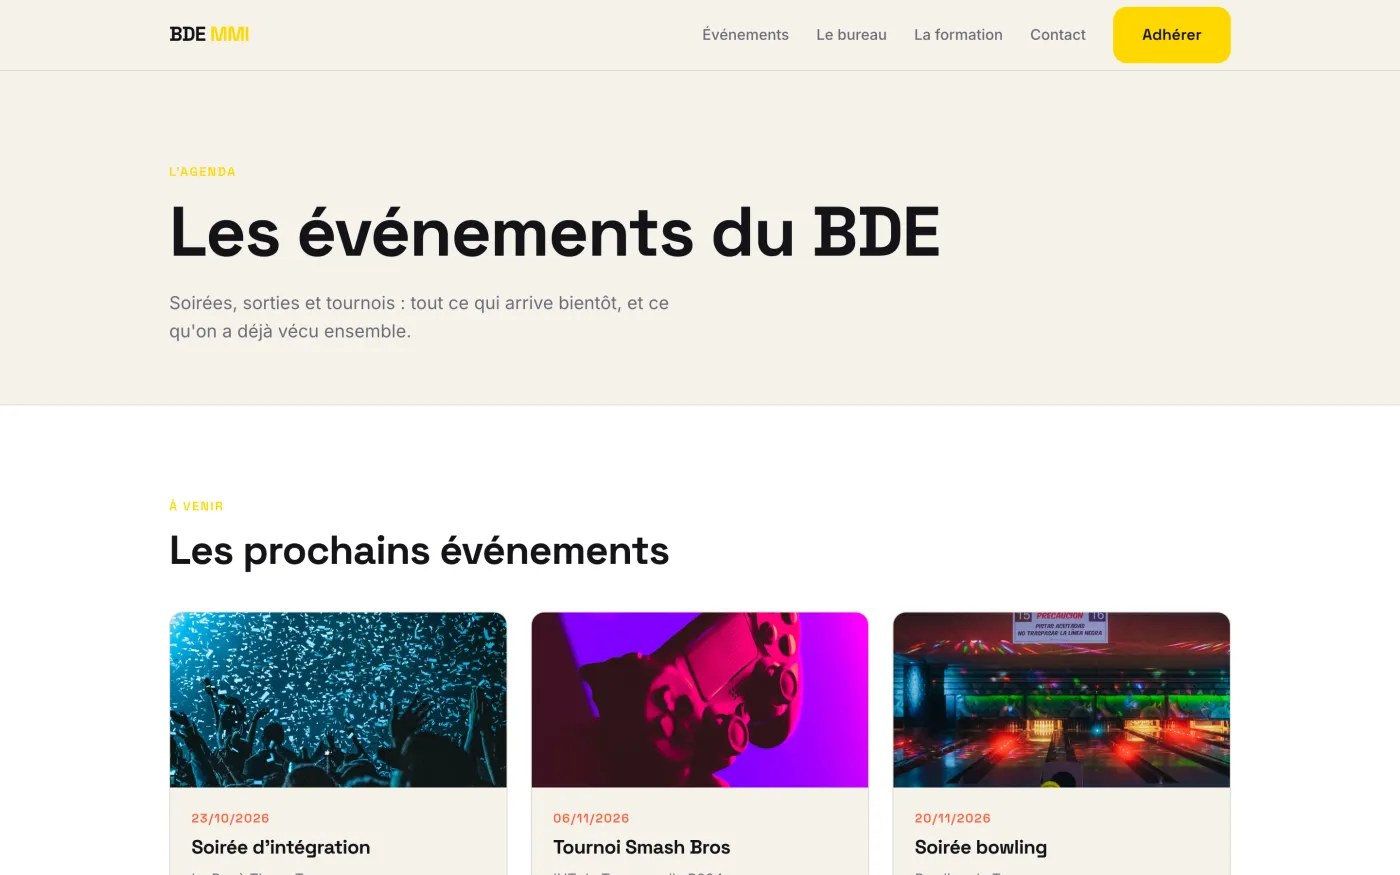
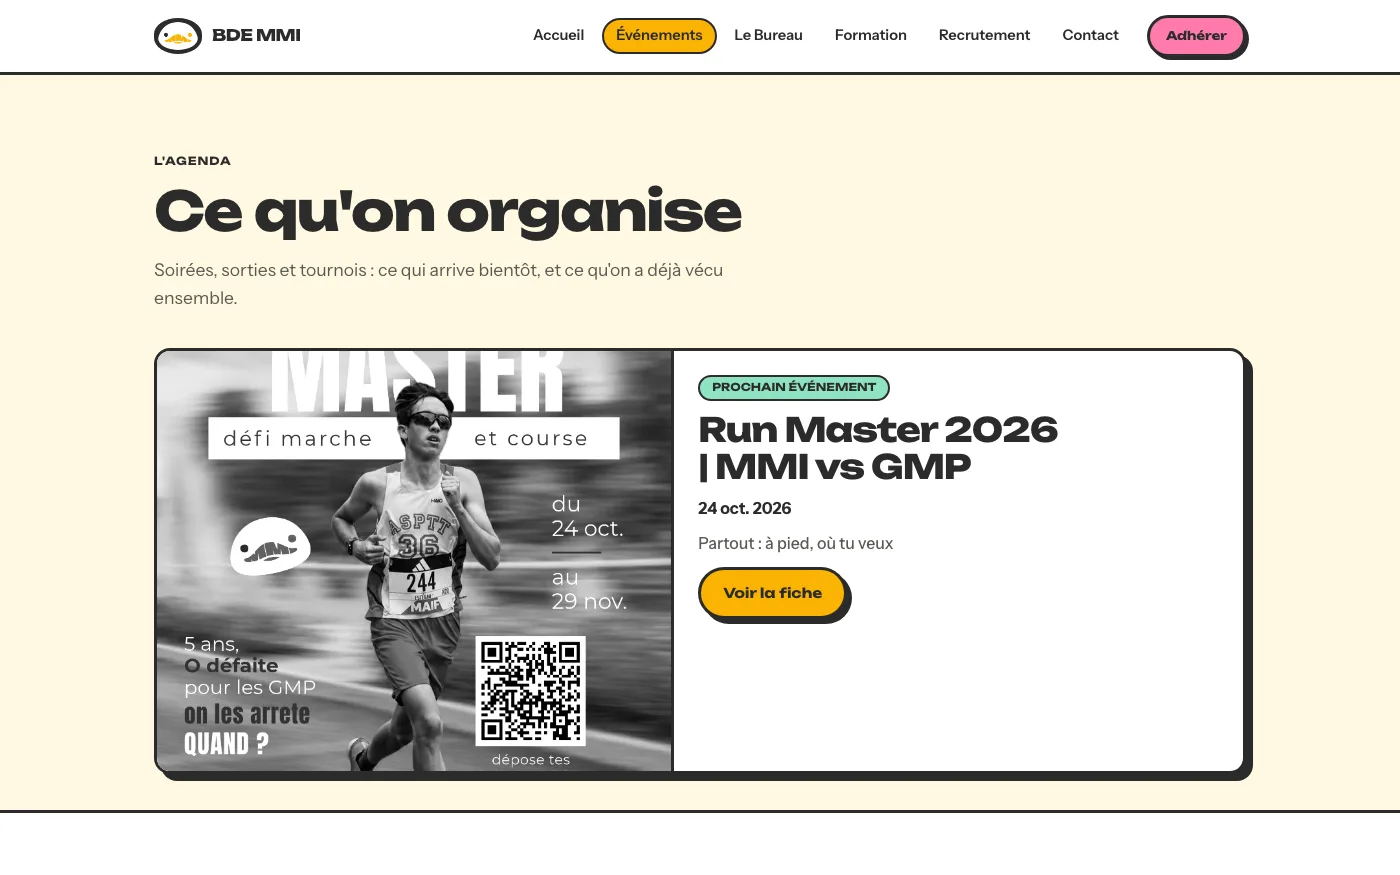
Remplace les captures du site BDE par le nouveau rendu
Accueil, événements, détail, candidature et vignette ; alts et crédit photo ajustés.

diff --git a/projet-bde-mmi.html b/projet-bde-mmi.html
@@ -55,7 +55,7 @@
       <div class="preview-wrapper">
         <span class="preview-badge">Symfony</span>
         <div class="preview-frame reveal-right">
-          <img src="images/bde-mmi/desktop-accueil.webp" alt="Page d'accueil du site du BDE MMI avec les prochains événements" style="width:100%;height:100%;object-fit:cover;display:block;" />
+          <img src="images/bde-mmi/desktop-accueil.webp" alt="Page d'accueil du site du BDE MMI : bandeau jaune « On fait vivre MMI » et boutons Adhérer et Voir les événements" style="width:100%;height:100%;object-fit:cover;display:block;" />
         </div>
         <div class="preview-tag preview-tag--js"><i class="fa-brands fa-symfony" style="color:#1a1a1a"></i> Symfony</div>
         <div class="preview-tag preview-tag--html"><i class="fa-solid fa-database" style="color:#0f2f70"></i> MySQL</div>
@@ -493,13 +493,13 @@ tests/Controller/  <span class="c-com">4 tests PHPUnit</span></code></pre>
     <div class="screens-row" style="margin-top:48px">
       <div class="screen-item reveal-left">
         <div class="screen-frame">
-          <img loading="lazy" src="images/bde-mmi/desktop-evenements.webp" alt="Liste des événements à venir et passés" style="width:100%;height:100%;object-fit:cover;display:block;" />
+          <img loading="lazy" src="images/bde-mmi/desktop-evenements.webp" alt="Page Événements du site du BDE MMI avec la fiche du prochain événement, Run Master 2026" style="width:100%;height:100%;object-fit:cover;display:block;" />
         </div>
         <div class="screen-label">Événements · Desktop</div>
       </div>
       <div class="screen-item reveal-right">
         <div class="screen-frame screen-frame--mobile">
-          <img loading="lazy" src="images/bde-mmi/mobile-detail.webp" alt="Page détail d'un événement sur téléphone" style="width:100%;height:100%;object-fit:cover;display:block;" />
+          <img loading="lazy" src="images/bde-mmi/mobile-detail.webp" alt="Page de l'événement Run Master MMI vs GMP sur téléphone, avec les boutons Je participe et Les règles" style="width:100%;height:100%;object-fit:cover;display:block;" />
         </div>
         <div class="screen-label">Détail · Mobile</div>
       </div>
@@ -527,12 +527,12 @@ tests/Controller/  <span class="c-com">4 tests PHPUnit</span></code></pre>
       </div>
       <div class="screen-item reveal-right">
         <div class="screen-frame screen-frame--mobile">
-          <img loading="lazy" src="images/bde-mmi/mobile-recrutement-formulaire.webp" alt="Formulaire de candidature sur téléphone" style="width:100%;height:100%;object-fit:cover;display:block;" />
+          <img loading="lazy" src="images/bde-mmi/mobile-recrutement-formulaire.webp" alt="Formulaire de candidature au BDE sur téléphone, étape 1 : prénom, nom, adresse mail et promo" style="width:100%;height:100%;object-fit:cover;display:block;" />
         </div>
         <div class="screen-label">Candidature · Mobile</div>
       </div>
     </div>
-    <p class="credit-photos">Affiches de démo : photos Unsplash de Jordon Conner, Luis Villasmil, Ryan Ancill, Sandra Seitamaa et Laura Peruchi. Données fictives.</p>
+    <p class="credit-photos">Accueil, événements et candidature : captures du site en ligne. Back-office et planning : captures de démo, avec des affiches Unsplash de Jordon Conner, Luis Villasmil, Ryan Ancill, Sandra Seitamaa et Laura Peruchi, et des données fictives.</p>
   </section>
 
   <!-- ── CTA ── -->
